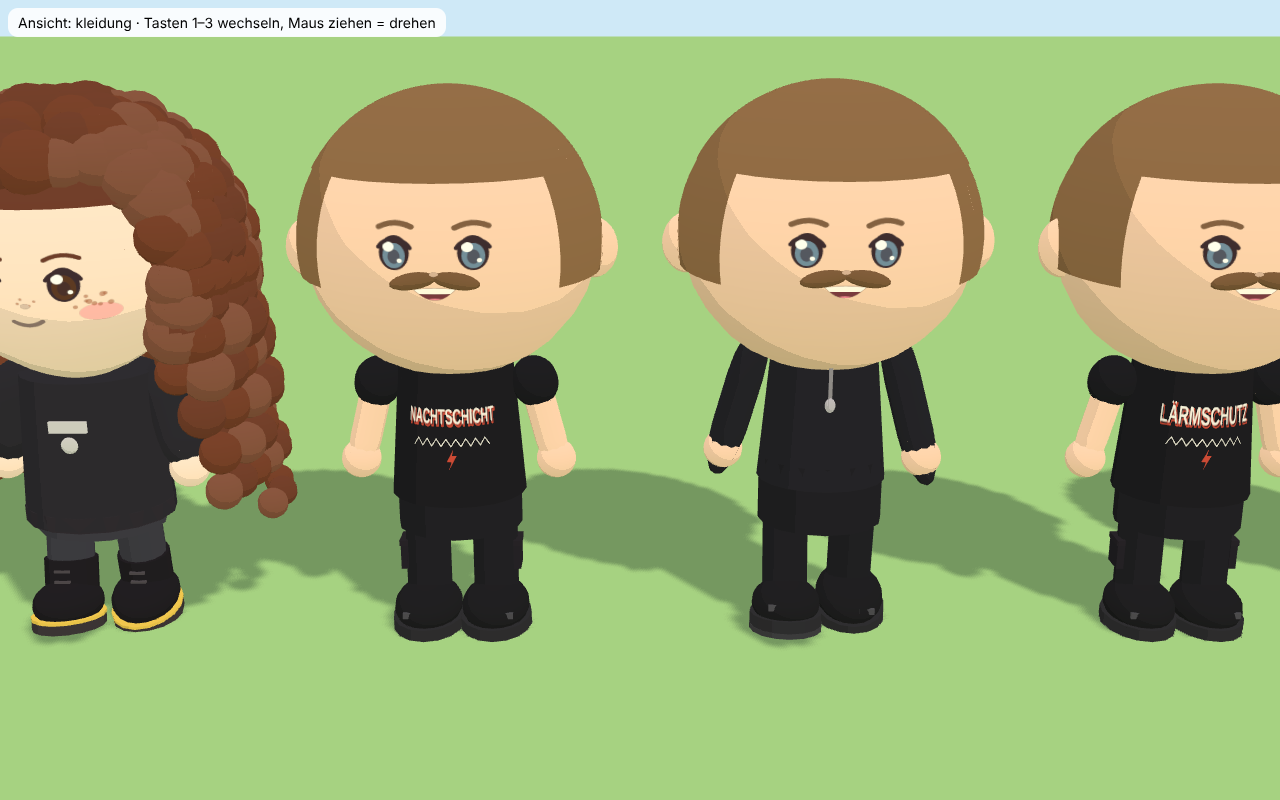
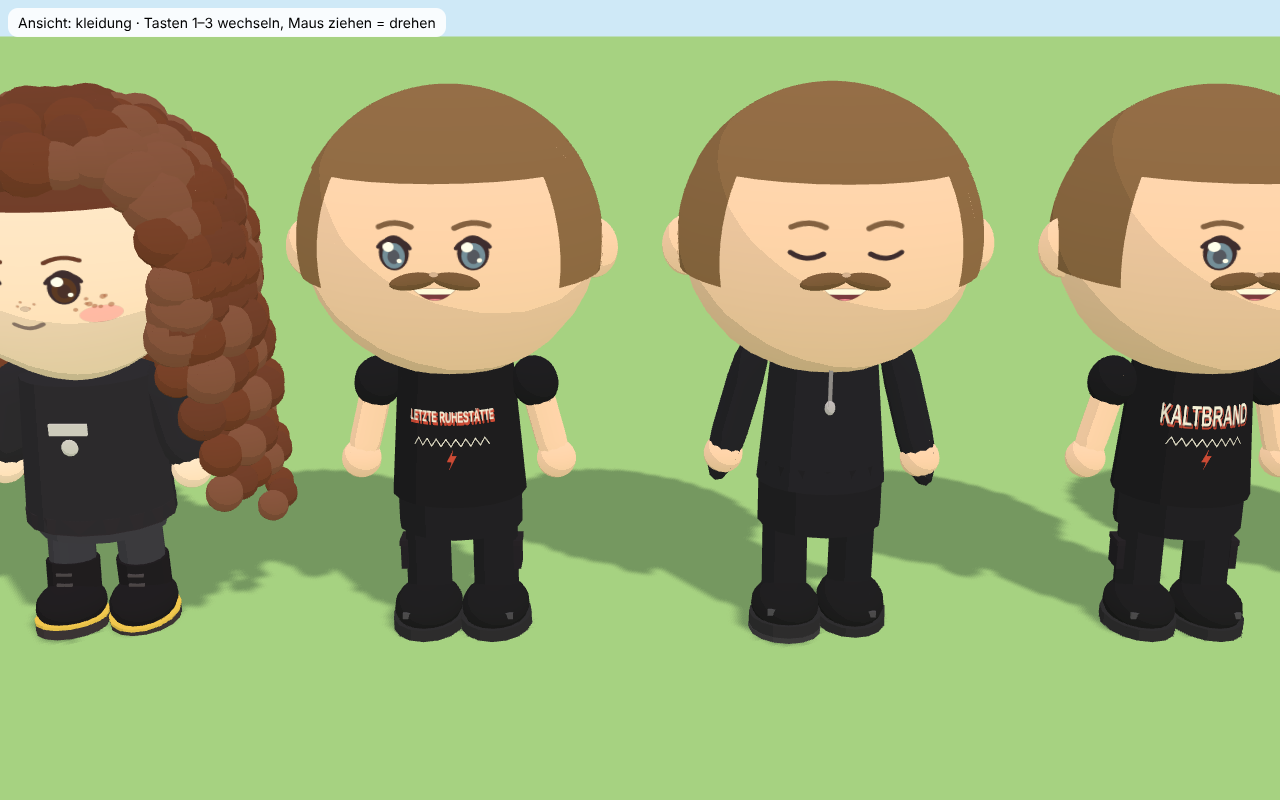
Kinofilm „Verlorene Autobahn“, Bands Letzte Ruhestätte / Kaltbrand / Sieben Schwerter
- Plakat und Wunsch heißen jetzt „Verlorene Autobahn“ (neues Motiv: nächtliche Autobahn), poster-verlorene-autobahn
- Olis Bandshirts: Kaltbrand und Sieben Schwerter im Wechsel, Letzte Ruhestätte als seltenes Tourshirt
- Texte, Erinnerungen, Doku, Screenshots angepasst

Claude-Session: https://claude.ai/code/session_01ThTYhPHTkGtFy4ue8CC8z3

diff --git a/src/gfx/posters.ts b/src/gfx/posters.ts
@@ -196,58 +196,61 @@ const MOTIFS: Record<PosterMotif, (ctx: C, w: number, h: number) => void> = {
     }
   },
   kultfilm: (ctx, w, h) => {
-    // Schwarz-Weiß: Zimmer mit Zickzack-Boden, Vorhang und Lichtkegel im Nebel
-    ctx.fillStyle = '#d8d6d1';
+    // Schwarz-Weiß: Autobahn bei Nacht, Mittelstreifen laufen zum Fluchtpunkt, Scheinwerferkegel im Nebel
+    const vx = w * 0.5;
+    const vy = h * 0.38;
+    ctx.fillStyle = '#2a2a30';
     ctx.beginPath();
-    ctx.moveTo(w * 0.3, h * 0.62);
-    ctx.lineTo(w * 0.7, h * 0.62);
-    ctx.lineTo(w * 0.95, h * 0.9);
-    ctx.lineTo(w * 0.05, h * 0.9);
+    ctx.moveTo(vx - w * 0.02, vy);
+    ctx.lineTo(vx + w * 0.02, vy);
+    ctx.lineTo(w * 1.05, h * 0.9);
+    ctx.lineTo(-w * 0.05, h * 0.9);
     ctx.closePath();
     ctx.fill();
-    ctx.strokeStyle = '#1a1a1e';
-    ctx.lineWidth = Math.max(2, w * 0.016);
-    ctx.beginPath();
-    for (let i = 0; i <= 8; i++) {
-      const t = i / 8;
-      ctx.lineTo(w * (0.3 + 0.4 * t) + (i % 2 ? w * 0.02 : -w * 0.02), h * 0.62 + (i % 2 ? h * 0.02 : 0));
+    // Randlinien
+    ctx.strokeStyle = '#d8d6d1';
+    ctx.lineWidth = Math.max(2, w * 0.012);
+    for (const s of [-1, 1]) {
+      ctx.beginPath();
+      ctx.moveTo(vx + s * w * 0.02, vy);
+      ctx.lineTo(vx + s * w * 0.5, h * 0.9);
+      ctx.stroke();
     }
-    ctx.stroke();
-    ctx.beginPath();
-    for (let i = 0; i <= 8; i++) {
-      const t = i / 8;
-      ctx.lineTo(w * (0.18 + 0.64 * t), h * (0.76 + (i % 2 ? 0.04 : -0.04)));
+    // Mittelstreifen (Striche werden nach vorn größer)
+    ctx.fillStyle = '#e9e7e3';
+    for (let i = 0; i < 7; i++) {
+      const t0 = Math.pow(i / 7, 1.8);
+      const t1 = Math.pow((i + 0.55) / 7, 1.8);
+      const y0 = vy + (h * 0.9 - vy) * t0;
+      const y1 = vy + (h * 0.9 - vy) * t1;
+      ctx.beginPath();
+      ctx.moveTo(vx - (0.004 + 0.02 * t0) * w, y0);
+      ctx.lineTo(vx + (0.004 + 0.02 * t0) * w, y0);
+      ctx.lineTo(vx + (0.004 + 0.02 * t1) * w, y1);
+      ctx.lineTo(vx - (0.004 + 0.02 * t1) * w, y1);
+      ctx.fill();
     }
-    ctx.stroke();
-    // Vorhänge
-    ctx.fillStyle = '#8f8c88';
-    for (const s of [0, 1]) {
-      for (let i = 0; i < 4; i++) {
-        ctx.beginPath();
-        ctx.moveTo(s * w * 0.8 + i * w * 0.05, h * 0.3);
-        ctx.quadraticCurveTo(s * w * 0.8 + i * w * 0.05 + w * 0.025, h * 0.46, s * w * 0.8 + i * w * 0.05, h * 0.62);
-        ctx.lineTo(s * w * 0.8 + (i + 1) * w * 0.05, h * 0.62);
-        ctx.lineTo(s * w * 0.8 + (i + 1) * w * 0.05, h * 0.3);
-        ctx.fill();
-      }
-    }
-    // Lichtkegel
-    const cone = ctx.createLinearGradient(0, h * 0.28, 0, h * 0.62);
-    cone.addColorStop(0, 'rgba(255,255,245,0.85)');
-    cone.addColorStop(1, 'rgba(255,255,245,0.05)');
+    // Scheinwerferkegel von unten
+    const cone = ctx.createLinearGradient(0, h * 0.9, 0, vy);
+    cone.addColorStop(0, 'rgba(255,255,245,0.55)');
+    cone.addColorStop(1, 'rgba(255,255,245,0)');
     ctx.fillStyle = cone;
     ctx.beginPath();
-    ctx.moveTo(w * 0.46, h * 0.28);
-    ctx.lineTo(w * 0.54, h * 0.28);
-    ctx.lineTo(w * 0.7, h * 0.62);
-    ctx.lineTo(w * 0.3, h * 0.62);
+    ctx.moveTo(w * 0.2, h * 0.9);
+    ctx.lineTo(w * 0.8, h * 0.9);
+    ctx.lineTo(vx + w * 0.04, vy);
+    ctx.lineTo(vx - w * 0.04, vy);
     ctx.closePath();
     ctx.fill();
-    // Nebel
-    ctx.fillStyle = 'rgba(233,231,227,0.25)';
-    for (const [x, y, rx] of [[0.25, 0.58, 0.2], [0.7, 0.66, 0.24], [0.5, 0.5, 0.16]] as const) {
+    // Mond und Nebel am Horizont
+    ctx.fillStyle = '#e9e7e3';
+    ctx.beginPath();
+    ctx.arc(w * 0.8, h * 0.3, w * 0.05, 0, Math.PI * 2);
+    ctx.fill();
+    ctx.fillStyle = 'rgba(233,231,227,0.22)';
+    for (const [x, y, rx] of [[0.3, vy / h, 0.26], [0.72, vy / h + 0.03, 0.24], [0.5, vy / h - 0.02, 0.18]] as const) {
       ctx.beginPath();
-      ctx.ellipse(w * x, h * y, w * rx, h * 0.035, 0, 0, Math.PI * 2);
+      ctx.ellipse(w * x, h * y, w * rx, h * 0.03, 0, 0, Math.PI * 2);
       ctx.fill();
     }
   },

diff --git a/src/data/wishes.ts b/src/data/wishes.ts
@@ -411,7 +411,7 @@ export const WISHES_3: readonly WishDef[] = [
     order: 2,
     title: 'Mitternachtskino mit Lini',
     intro: [
-      'Lini, in der Stadt läuft eine Mitternachtsvorstellung. Ein alter Schwarz-Weiß-Kultfilm, „Das Nebelzimmer“. Von deinem Lieblingsregisseur – du weißt schon, der mit dem Radierkopf auf deinem Pulli.',
+      'Lini, in der Stadt läuft eine Mitternachtsvorstellung. Ein alter Schwarz-Weiß-Kultfilm, „Verlorene Autobahn“. Von deinem Lieblingsregisseur – du weißt schon, der mit dem Radierkopf auf deinem Pulli.',
       'Ich hab ehrlich gesagt keine Ahnung, worum es geht. Soll ja keiner verstehen. Aber ich würde es so gern mit dir sehen. Du erklärst mir hinterher alles. Oder auch nichts. Das ist ja der Witz.',
       'Zwei Karten und ein bisschen Kinogeld: 120 Sternchen. Und zwei Snacks, die man im Dunkeln leise essen kann. Nicht zu knusprig, bitte. Die Leute zischen sonst.',
     ],
@@ -419,11 +419,11 @@ export const WISHES_3: readonly WishDef[] = [
     needs: [{ category: 'essen', count: 2, label: 'Snacks (zwei Gerichte)' }],
     stars: 120,
     done: [
-      'Das war … ich habe wirklich kein Wort verstanden. Es gab ein Zimmer, Nebel, einen Mann mit sehr langsamer Stimme und einen Vorhang. Viel Vorhang.',
+      'Das war … ich habe wirklich kein Wort verstanden. Es gab eine Autobahn bei Nacht, einen Mann mit sehr langsamer Stimme und ungefähr elf Mal dieselbe Tür. Ich glaube, es war wichtig.',
       'Aber du hast die ganze Zeit gestrahlt. Und ich hab die ganze Zeit dich angeguckt. Das war der beste Film meines Lebens, Lini. 💕',
       'Ich hab uns zur Erinnerung das Plakat mitgenommen. Hängt es irgendwo auf, wo ich es nachts im Vorbeigehen sehe. Dann rätsle ich weiter.',
     ],
-    rewardItems: [{ itemId: 'poster-nebelzimmer', count: 1 }],
+    rewardItems: [{ itemId: 'poster-verlorene-autobahn', count: 1 }],
   },
   {
     id: 'oli-bandshirt',
@@ -431,11 +431,11 @@ export const WISHES_3: readonly WishDef[] = [
     order: 3,
     title: 'Das seltene Tourshirt',
     intro: [
-      'Lini, darf ich dir was Nerdiges beichten? Es gibt ein Shirt von NACHTSCHICHT, von der allerletzten Tour. Nur hundert Stück gedruckt. Die Band gibt es nicht mehr. Ich hab es mal in einer Sammlerkiste gesehen und es nicht gekauft. Ich ärgere mich bis heute.',
+      'Lini, darf ich dir was Nerdiges beichten? Es gibt ein Shirt von „Letzte Ruhestätte“, von der allerletzten Tour. Nur hundert Stück gedruckt. Die Band gibt es nicht mehr. Ich hab es mal in einer Sammlerkiste gesehen und es nicht gekauft. Ich ärgere mich bis heute.',
       'Thalia kennt einen Sammler, der tauscht. Er will einen Bernstein und, na ja, Sammlerpreis: 300 Sternchen. Ich weiß, ich weiß. Ein Shirt. Aber es ist EIN Shirt.',
       'Ich würde es nur zu besonderen Anlässen tragen. Also ungefähr alle paar Tage. Besondere Anlässe gibt es ja ständig.',
     ],
-    reminder: ['Das NACHTSCHICHT-Shirt? Ich hab die Größe schon dreimal nachgeprüft. Es ist M. Es war immer M.'],
+    reminder: ['Das „Letzte Ruhestätte“-Shirt? Ich hab die Größe schon dreimal nachgeprüft. Es ist M. Es war immer M.'],
     needs: [{ item: 'bernstein', count: 1, label: 'Bernstein (zum Tauschen)' }],
     stars: 300,
     done: [

diff --git a/src/data/erinnerungen.ts b/src/data/erinnerungen.ts
@@ -71,10 +71,10 @@ export const MEMORIES: readonly Memory[] = [
   { id: 'thalia-dach', npc: 'thalia', tag: 'haus-dach', text: ['Von deinem Dachfenster aus sieht man bestimmt bis zum Meer. Ich muss das mal kartieren.'] },
   { id: 'thalia-schwarz', npc: 'thalia', tag: 'schwarze-blume', text: ['Eine schwarze Blume im Beet? Das ist biologisch fast unmöglich. Ich liebe es!'] },
   { id: 'thalia-monat', npc: 'thalia', tag: 'monat-1', text: ['Ein Monat {dorf}! Ich hab schon einen Plan, wohin wir als Nächstes wandern. Ich hab immer einen Plan.'] },
-  { id: 'oli-kino', npc: 'oli', tag: 'kino', text: ['Ich denke immer noch an das Nebelzimmer, Lini. Ich glaube, ich habe es jetzt zu 4 Prozent verstanden.', 'Der Rest ist Vorhang.'] },
-  { id: 'thalia-kino', npc: 'thalia', tag: 'kino', text: ['Ihr wart im Mitternachtskino? Mit dem Film, den keiner versteht? Ich bin stolz auf euch.', 'Ich hab ihn dreimal gesehen und bin heute noch Fan der Treppe. Frag nicht.'] },
-  { id: 'lars-kino', npc: 'lars', tag: 'kino', text: ['Oli hat mir vom Nebelzimmer erzählt. Medizinisch klingt das nach Schlafmangel. Aber ein schöner.'] },
-  { id: 'oli-tourshirt', npc: 'oli', tag: 'tourshirt', text: ['Das NACHTSCHICHT-Shirt hängt über dem Stuhl. Ich trau mich gar nicht, es zu waschen.', 'Du bist die Beste, Lini. Und Thalia mit ihrem Sammler auch ein bisschen.'] },
+  { id: 'oli-kino', npc: 'oli', tag: 'kino', text: ['Ich denke immer noch an die „Verlorene Autobahn“, Lini. Ich glaube, ich habe es jetzt zu 4 Prozent verstanden.', 'Der Rest ist Nacht und eine Tür.'] },
+  { id: 'thalia-kino', npc: 'thalia', tag: 'kino', text: ['Ihr wart im Mitternachtskino? Mit dem Film, den keiner versteht? Ich bin stolz auf euch.', 'Ich hab ihn dreimal gesehen und bin heute noch Fan von der Autobahn bei Nacht. Frag nicht.'] },
+  { id: 'lars-kino', npc: 'lars', tag: 'kino', text: ['Oli hat mir von der „Verlorenen Autobahn“ erzählt. Medizinisch klingt das nach Schlafmangel. Aber ein schöner.'] },
+  { id: 'oli-tourshirt', npc: 'oli', tag: 'tourshirt', text: ['Das „Letzte Ruhestätte“-Shirt hängt über dem Stuhl. Ich trau mich gar nicht, es zu waschen.', 'Du bist die Beste, Lini. Und Thalia mit ihrem Sammler auch ein bisschen.'] },
   { id: 'thalia-tourshirt', npc: 'thalia', tag: 'tourshirt', text: ['Der Sammler hat mir noch eine Postkarte geschickt: „Der Bernstein ist in guten Händen.“ Schön, oder?', 'Wissenschaftlich ein guter Tausch. Emotional sowieso.'] },
   { id: 'thalia-matteo', npc: 'thalia', tag: 'matteo', text: ['Pater Matteo hat wieder geschrieben! Er nennt mich „liebe Thalia“. Er nennt auch dich „liebe Lina“. Wir sind beide gleich lieb. Ich analysiere das noch.'] },
   { id: 'thalia-tassen', npc: 'thalia', tag: 'tassen-viele', text: ['Deine Tassensammlung ist eine kleine Weltkarte. Fehlt nur noch Reykjavík. Ich hab eine, falls du magst.'] },

diff --git a/src/data/posters.ts b/src/data/posters.ts
@@ -2,7 +2,7 @@
  * Poster (Wand-Deko) und Coffee-Table-Books (kleine Bildbände für Tische) zu Linas Lieblingsthemen: Kaffee, Dr. No, Kawaii.
  * (Horror- und Zauberschul-Poster gab es kurz, Lina mochte sie nicht – siehe Git-Verlauf.)
  *
- * Alles ist ausgedacht – Titel und Motive sind keine echten Werke oder Personen (siehe CLAUDE.md). Gemalt wird in
+ * Titel und Motive sind ausgedacht (siehe CLAUDE.md) – Ausnahme: das Kinoplakat „Verlorene Autobahn“, dessen Titel Lina sich für Olis Kino-Wunsch gewünscht hat. Gemalt wird in
  * `gfx/posters.ts`, die 3D-Modelle in `models/furniture.ts`. Neue Poster: Eintrag in `POSTERS` + Motiv in `MOTIFS`.
  */
 
@@ -31,7 +31,7 @@ export interface PosterDef {
 export const POSTERS: readonly PosterDef[] = [
   // ---------------------------------------------------------------- Poster (Wand)
   { id: 'poster-kaffee', name: 'Retro-Poster „Café Fabuleux“', kind: 'poster', title: 'CAFÉ\nFABULEUX', sub: 'Das Leben ist zu kurz für schlechten Kaffee.', colors: ['#f3dcb8', '#d9a86a'], ink: '#4a2a1c', motif: 'kaffee', price: 200, description: 'Ein Kaffee-Poster im Stil alter Café-Werbung. Mit Dampfherzchen. Jens will es auch haben.' },
-  { id: 'poster-nebelzimmer', name: 'Kinoplakat „Das Nebelzimmer“', kind: 'poster', title: 'DAS\nNEBELZIMMER', sub: 'Mitternachtsvorstellung', colors: ['#3a3a40', '#16161a'], ink: '#e9e7e3', motif: 'kultfilm', price: 420, gift: true, description: 'Das Plakat vom Mitternachtskino mit Oli: ein Schwarz-Weiß-Kultfilm, den keiner versteht. Oli rätselt nachts im Vorbeigehen weiter.' },
+  { id: 'poster-verlorene-autobahn', name: 'Kinoplakat „Verlorene Autobahn“', kind: 'poster', title: 'VERLORENE\nAUTOBAHN', sub: 'Mitternachtsvorstellung', colors: ['#3a3a40', '#16161a'], ink: '#e9e7e3', motif: 'kultfilm', price: 420, gift: true, description: 'Das Plakat vom Mitternachtskino mit Oli: ein Schwarz-Weiß-Kultfilm, den keiner versteht. Oli rätselt nachts im Vorbeigehen weiter.' },
   // ---------------------------------------------------------------- Bildbände (Tisch)
   { id: 'buch-kaffee', name: 'Bildband „Kaffee – eine Liebeserklärung“', kind: 'buch', title: 'KAFFEE', sub: 'Eine Liebeserklärung', colors: ['#f3dcb8', '#d9a86a'], ink: '#4a2a1c', motif: 'kaffee', price: 360, description: 'Ein Bildband über Bohnen, Röstungen und Siebträger. Er riecht seltsamerweise nach Kaffee. Beim Blättern hat man Durst.' },
   { id: 'buch-dr-no', name: 'Buch „Ein Schritt. Dann noch einer.“', kind: 'buch', title: 'EIN SCHRITT.\nDANN NOCH\nEINER.', sub: 'Dr. No', colors: ['#3f5a66', '#6a8a96'], ink: '#fdf6e8', motif: 'dr-no', price: 400, description: 'Die Erinnerungen von Dr. No aus „Schwerer Weg“. Streng im Ton, warm im Herzen. Das Lieblingsbuch auf Linas Couchtisch.' },

diff --git a/src/data/wardrobe.ts b/src/data/wardrobe.ts
@@ -31,8 +31,8 @@ export const PRINT_COLORS = {
   band: { text: '#f1efe9', accent: '#c94a3a' },
 } as const;
 
-/** Das seltene Tourshirt aus Olis Wunsch (Band ausgedacht, Letzte Tour) – er trägt es nur ab und zu */
-export const RARE_BAND = 'NACHTSCHICHT';
+/** Das seltene Tourshirt aus Olis Wunsch (Band „Letzte Ruhestätte“, letzte Tour) – er trägt es nur ab und zu */
+export const RARE_BAND = 'LETZTE RUHESTÄTTE';
 
-/** Olis Bands – ausgedacht. Welches Shirt er trägt, wechselt mit dem Tag. */
-export const BAND_NAMES: readonly string[] = ['BETONHERZ', 'KAFFEESATZ', 'LÄRMSCHUTZ', 'STAHLWOLLE', 'KRACH & KAKAO', 'FAUSTREGEL'];
+/** Olis Bands (ohne „Letzte Ruhestätte“, das gibt es nur als seltenes Tourshirt – `RARE_BAND`). Welches Shirt er trägt, wechselt mit dem Tag. */
+export const BAND_NAMES: readonly string[] = ['KALTBRAND', 'SIEBEN SCHWERTER'];

diff --git a/src/data/npcs/looks.ts b/src/data/npcs/looks.ts
@@ -162,7 +162,7 @@ export const OLI_WARDROBE: readonly WardrobeItem[] = [
   { outfit: 'jacke', outfitColor: '#222228', accentColor: OLI_PANTS.jeans, shoes: 'chunky-schwarz' },
 ];
 
-/** Dazu, sobald Lina Olis Wunsch erfüllt hat: das seltene NACHTSCHICHT-Tourshirt (siehe `data/wishes.ts`) */
+/** Dazu, sobald Lina Olis Wunsch erfüllt hat: das seltene Tourshirt „Letzte Ruhestätte“ (siehe `data/wishes.ts`) */
 export const OLI_RARE_WARDROBE: readonly WardrobeItem[] = [
   { outfit: 'bandshirt', outfitColor: OLI_BLACK, accentColor: OLI_PANTS.schwarz, shoes: 'chunky-schwarz', band: RARE_BAND },
   { outfit: 'bandshirt', outfitColor: OLI_BLACK, accentColor: OLI_PANTS.jeans, shoes: 'chunky', band: RARE_BAND },

diff --git a/src/game/wishes.test.ts b/src/game/wishes.test.ts
@@ -199,7 +199,7 @@ describe('Herzenswünsche – Phase 2', () => {
     addItem(s.data!.inventory, 'ruehrei', 1, maxStackOf);
     addItem(s.data!.inventory, 'obstsalat', 1, maxStackOf);
     const r = fulfillWish(s, 'oli')!;
-    expect(r.rewards).toEqual([{ itemId: 'poster-nebelzimmer', count: 1 }]);
+    expect(r.rewards).toEqual([{ itemId: 'poster-verlorene-autobahn', count: 1 }]);
     expect(s.data!.money).toBe(380);
     expect(activeWish(s, 'oli')?.id).toBe('oli-bandshirt');
   });

diff --git a/src/data/furnitureHeights.ts b/src/data/furnitureHeights.ts
@@ -71,7 +71,7 @@ export const FURNITURE_HEIGHTS: Readonly<Record<string, number>> = {
   'nierentisch': 0.46,
   'ohrensessel': 1.06,
   'poster-grusel': 0.93,
-  'poster-nebelzimmer': 0.95,
+  'poster-verlorene-autobahn': 0.95,
   'poster-kaffee': 0.95,
   'regal': 0.95,
   'reisekoffer': 0.32,

diff --git a/docs/game-mechanics.md b/docs/game-mechanics.md
@@ -124,9 +124,9 @@ Wetter und Feste laufen nach echter Zeit.
   **ausgedachte** Figur (Pfarrer in einem Bergdorf, schreibt über Steine und Wanderwege, bescheiden und humorvoll). Lina hilft beim Päckchen (Bergkristall, Lavendelkekse, 100 ⭐
   Porto). Danach schreibt er an Lina & Thalia, **2, 10, 25 und 50 Tage später** (je einmal), mit Basilikum- und Tomatensamen, einem Rosenquarz und zuletzt der Tasse „Montecielo“.
   Er erscheint nie im Dorf. Thalia, Oma, Jens und Lars kommentieren das im Gespräch (Erinnerungen, Tag `matteo`).
-- **Olis Wünsche** (`WISHES_3`, `order` 2 und 3): **„Mitternachtskino mit Lini“** (zwei Snacks + 120 ⭐; Szene: ein ausgedachter Schwarz-Weiß-Kultfilm „Das Nebelzimmer“,
+- **Olis Wünsche** (`WISHES_3`, `order` 2 und 3): **„Mitternachtskino mit Lini“** (zwei Snacks + 120 ⭐; Szene: ein ausgedachter Schwarz-Weiß-Kultfilm „Verlorene Autobahn“,
   den keiner versteht; Dank: das **Kinoplakat** als Wanddeko) und danach **„Das seltene Tourshirt“** (Bernstein + 300 ⭐; Dank: das Shirt der ausgedachten Band
-  **NACHTSCHICHT**). Ab dann kommt das Tourshirt in Olis **Kleiderschrank** (`OLI_RARE_WARDROBE`, `wardrobeFor` in `game/wishes.ts`) und er trägt es ab und zu – `Appearance.band`
+  **„Letzte Ruhestätte“**). Ab dann kommt das Tourshirt in Olis **Kleiderschrank** (`OLI_RARE_WARDROBE`, `wardrobeFor` in `game/wishes.ts`) und er trägt es ab und zu – `Appearance.band`
   legt den Bandnamen fest statt der Tages-Band. Gespräche: Erinnerungen mit den Tags `kino` und `tourshirt` (Oli, Thalia, Lars).
 - **Nichts geht für immer verloren:** Werkzeuge und einmalige Geschenke (Möbel mit `gift: true`, außer Kunst) sind
   Erinnerungsstücke (`isKeepsake`): unverkäuflich (`price: null`) und nicht verschenkbar. Fehlt beim Laden etwas, das

diff --git a/docs/development-status.md b/docs/development-status.md
@@ -264,7 +264,7 @@ Legende: ✅ erledigt · 🚧 in Arbeit · ⬜ geplant
   - ✅ **Phase 3 – Gemüse & Kräuter:** 6 Gemüse + 4 Kräuter im Beet (mehrere Stück je Ernte, Wurzelgemüse räumt den Platz), Reiter am Samenstand (saisonal), 7 neue Gerichte, Rezepte bei der ersten Ernte
   - ✅ **Phase 4 – Sträuße & Blumendeko:** 7 Sträuße binden (Reiter „Blumen“ an der Werkbank), Glasvase im Katalog, Vasen mit Strauß & 4 Wandkränze, Strauß-Geschenke für alle Bewohner
   - ✅ **Phase 5 – Gewächshaus:** Winterruhe im Beet draußen (Raureif), Frühbeet & Gewächshaus lassen es ganzjährig wachsen
-- ✅ **Herzenswünsche für Oli:** Mitternachtskino (Kinoplakat „Das Nebelzimmer“) und seltenes Tourshirt (Band NACHTSCHICHT im Kleiderschrank)
+- ✅ **Herzenswünsche für Oli:** Mitternachtskino (Kinoplakat „Verlorene Autobahn“) und seltenes Tourshirt (Band „Letzte Ruhestätte“ im Kleiderschrank)
 - ✅ **Pater Matteo:** Thalias Brieffreund aus Italien (ausgedachte Figur) – Päckchen verschicken, danach vier Briefe mit kleinen Geschenken
 - ✅ **Herzenswünsche Phase 2:** sechs persönliche Wünsche (Omas Eierlikör, Olafs Flugzeugmodell, Christins Volkstanz, Jens' Urlaub mit Wahl, Lars' Wolframit, Thalias Party) mit Szene und Geschenk
 - ✅ **Fotomodus:** Taste F / 📷 – Schnappschuss mit Rahmen (Polaroid, Herzchen, Blümchen, Schlicht) zum Speichern als PNG

diff --git a/docs/game-design/DESIGN_DECISIONS.md b/docs/game-design/DESIGN_DECISIONS.md
@@ -167,7 +167,7 @@ Format: **Entscheidung** – Begründung – verworfene Alternative(n) – Auswi
 
 ### D25 · Olis Wünsche: Kino und seltenes Bandshirt (Nov. 2026)
 - **Anlass:** Olis Wunschliste von Lina: gemeinsam ins Kino zu einem Kultfilm ihres Lieblingsregisseurs, ein seltenes Bandshirt.
-- **Keine echten Namen:** Regisseur, Film und Band sind ausgedacht („Das Nebelzimmer“, NACHTSCHICHT); der Bezug zu Linas „Radierkopf“-Pulli ist die einzige Verbeugung.
+- **Namen (auf Linas Wunsch):** Der Film heißt „Verlorene Autobahn“ (Titel eines echten Kultfilms, bewusst von Lina gewählt; der Regisseur wird nicht genannt, nur der Bezug zu Linas „Radierkopf“-Pulli). Die Bands auf Olis Shirts sind ausgedacht: „Kaltbrand“ und „Sieben Schwerter“ im Wechsel, „Letzte Ruhestätte“ als seltenes Tourshirt (Wunsch).
 - **Designprüfung:** Beide Wünsche sind optional, ohne Frist und ohne Streak. Kino ist eine **gemeinsame Szene** (Verbundenheit), das Shirt eine **sichtbare Veränderung**
   an Oli (Besitz/Persönlichkeit). Kosten bescheiden: 120 ⭐ + 2 Snacks bzw. 300 ⭐ + 1 Bernstein (Thalias Sammler tauscht) – Sternchen-Senke ohne Grind.
 - **Technik:** `Appearance.band` (optional) und `wardrobeFor(session, def)`; kein neues Spielstand-Feld (Flags), kein `SAVE_VERSION`-Wechsel.
